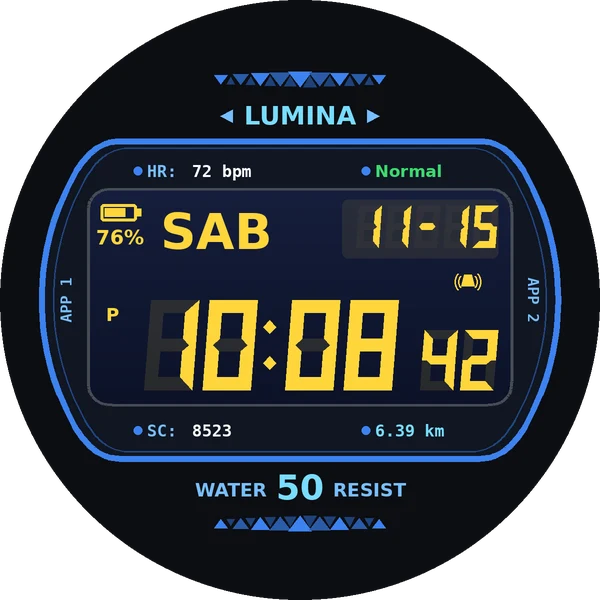
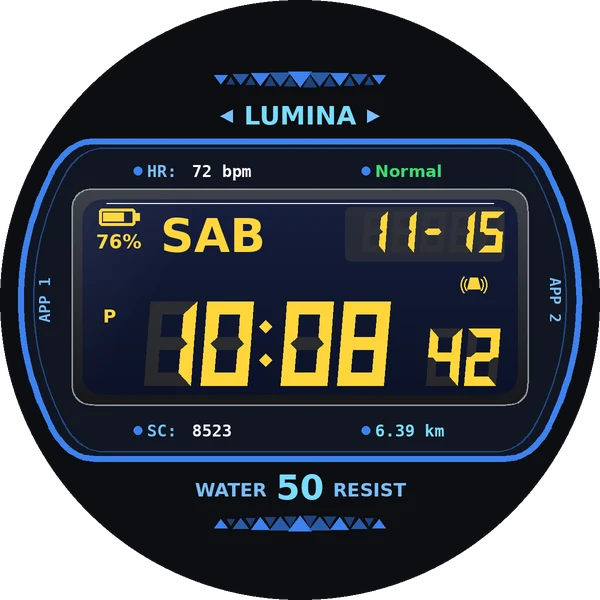
Lumina: costados del panel más cerca del borde y pantalla con bisel y cristal
Claude-Session: https://claude.ai/code/session_01RTdv2VrACuR4VFWJLA57hx

Changed region(s): [[0.03, 0.21, 0.99, 0.78], [0.24, 0.48, 0.69, 0.69], [0.75, 0.45, 0.81, 0.51]]

diff --git a/android/esferas-de-reloj/lumina/src/main/java/cl/carlospnauto/esfera/FaceService.kt b/android/esferas-de-reloj/lumina/src/main/java/cl/carlospnauto/esfera/FaceService.kt
@@ -230,7 +230,7 @@ class LuminaRenderer(
         val r = min(b.width(), b.height()) / 2f
         val fx = (x - b.exactCenterX()) / r
         val fy = (y - b.exactCenterY()) / r
-        return fx in -0.70f..0.70f && fy in -0.365f..0.345f
+        return fx in -0.76f..0.76f && fy in -0.37f..0.35f
     }
 
     private fun a(c: Int, alpha: Int) = Color.argb(alpha, Color.red(c), Color.green(c), Color.blue(c))
@@ -289,7 +289,7 @@ class LuminaRenderer(
         val rr = r * k
         fun X(v: Float) = cx + v * rr
         fun Y(v: Float) = cy + v * rr
-        val side = 0.86f
+        val side = 0.93f
         val edge = 0.53f
         val sy = 0.42f
         val ang = Math.toDegrees(kotlin.math.asin((sy / side).toDouble())).toFloat()
@@ -362,7 +362,9 @@ class LuminaRenderer(
         val th = THEMES[Choices.index(context, THEME)].second
         canvas.drawColor(Color.BLACK)
 
-        val lcd = RectF(X(-0.70f), Y(-0.365f), X(0.70f), Y(0.345f))
+        // Bisel (marco) de la pantalla y, adentro, la pantalla bajo el cristal
+        val bezel = RectF(X(-0.76f), Y(-0.37f), X(0.76f), Y(0.35f))
+        val lcd = RectF(bezel.left + r * 0.035f, bezel.top + r * 0.035f, bezel.right - r * 0.035f, bezel.bottom - r * 0.035f)
         val ink = if (simple) Color.rgb(170, 170, 170) else sc.ink
         val ghost = if (simple) 0 else a(sc.ink, if (sc.dark) 30 else 26)
 
@@ -400,7 +402,7 @@ class LuminaRenderer(
             canvas.drawPath(path, stroke)
 
             // APP 1 y APP 2 (accesos) en los costados
-            for ((sx, label, deg) in listOf(Triple(-0.778f, "APP 1", -90f), Triple(0.778f, "APP 2", 90f))) {
+            for ((sx, label, deg) in listOf(Triple(-0.85f, "APP 1", -90f), Triple(0.85f, "APP 2", 90f))) {
                 canvas.save()
                 canvas.rotate(deg, X(sx), cy)
                 write(canvas, label, X(sx), cy + r * 0.018f, r * 0.05f, th.label, mono, Paint.Align.CENTER)
@@ -444,10 +446,18 @@ class LuminaRenderer(
             write(canvas, "RESIST", X(0.11f), Y(0.655f), ws, th.label, bold, Paint.Align.LEFT, -0.2f)
             chevrons(canvas, cx, Y(0.745f), r, th.chevron, top = false)
 
-            // Pantalla: bisel y cristal
-            stroke.color = Color.rgb(70, 76, 86)
-            stroke.strokeWidth = r * 0.02f
+            // Bisel: marco metálico oscuro alrededor de la pantalla, con un filo de luz arriba
+            screenPath(bezel, r)
+            fill.shader = LinearGradient(bezel.left, bezel.top, bezel.left, bezel.bottom, Color.rgb(62, 66, 74), Color.rgb(22, 24, 28), Shader.TileMode.CLAMP)
+            canvas.drawPath(path, fill)
+            fill.shader = null
+            stroke.color = Color.argb(110, 255, 255, 255)
+            stroke.strokeWidth = r * 0.006f
+            canvas.drawPath(path, stroke)
+            // La pantalla, hundida en el bisel
             screenPath(lcd, r)
+            stroke.color = Color.argb(170, 0, 0, 0)
+            stroke.strokeWidth = r * 0.014f
             canvas.drawPath(path, stroke)
             fill.shader = LinearGradient(lcd.left, lcd.top, lcd.left, lcd.bottom, sc.top, sc.bottom, Shader.TileMode.CLAMP)
             canvas.drawPath(path, fill)
@@ -474,38 +484,38 @@ class LuminaRenderer(
         // Batería: pila chica con su nivel y el porcentaje
         val pct = battery?.getIntProperty(BatteryManager.BATTERY_PROPERTY_CAPACITY) ?: -1
         if (!simple) {
-            val bx = X(-0.665f)
-            val by = Y(-0.32f)
+            val bx = X(-0.67f)
+            val by = Y(-0.305f)
             stroke.color = ink
             stroke.strokeWidth = r * 0.011f
             canvas.drawRoundRect(RectF(bx, by, bx + r * 0.12f, by + r * 0.056f), r * 0.01f, r * 0.01f, stroke)
             fill.color = ink
             canvas.drawRect(bx + r * 0.12f, by + r * 0.016f, bx + r * 0.135f, by + r * 0.04f, fill)
             if (pct >= 0) canvas.drawRect(bx + r * 0.014f, by + r * 0.014f, bx + r * 0.014f + r * 0.092f * pct / 100f, by + r * 0.042f, fill)
-            write(canvas, if (pct >= 0) "$pct%" else "--", bx + r * 0.065f, Y(-0.185f), r * 0.068f, ink, bold, Paint.Align.CENTER)
+            write(canvas, if (pct >= 0) "$pct%" else "--", bx + r * 0.065f, Y(-0.172f), r * 0.064f, ink, bold, Paint.Align.CENTER)
         }
 
         // Día de la semana grande
         val dow = t.dayOfWeek.getDisplayName(TextStyle.SHORT, loc).replace(".", "").take(3).uppercase(loc)
-        write(canvas, dow, X(-0.465f), Y(-0.17f), r * 0.165f, ink, black, Paint.Align.LEFT)
+        write(canvas, dow, X(-0.465f), Y(-0.16f), r * 0.155f, ink, black, Paint.Align.LEFT)
 
         // Fecha (mes-día) en su cajita, con «8» apagados
         if (!simple) {
             fill.color = a(sc.ink, if (sc.dark) 22 else 16)
-            canvas.drawRoundRect(RectF(X(0.14f), Y(-0.335f), X(0.66f), Y(-0.14f)), r * 0.02f, r * 0.02f, fill)
+            canvas.drawRoundRect(RectF(X(0.15f), Y(-0.31f), X(0.68f), Y(-0.13f)), r * 0.02f, r * 0.02f, fill)
         }
-        Lcd.row(canvas, "${t.monthValue}-${t.dayOfMonth}", X(0.65f), Y(-0.315f), r * 0.075f, r * 0.14f, r * 0.022f, 5, ink, ghost)
+        Lcd.row(canvas, "${t.monthValue}-${t.dayOfMonth}", X(0.67f), Y(-0.295f), r * 0.075f, r * 0.135f, r * 0.022f, 5, ink, ghost)
 
         // Alarma puesta: campana con ondas
-        if (!simple) bell(canvas, X(0.56f), Y(-0.06f), r * 0.04f, if (Indicators.alarm(context)) ink else ghost)
+        if (!simple) bell(canvas, X(0.58f), Y(-0.05f), r * 0.04f, if (Indicators.alarm(context)) ink else ghost)
 
         // Hora grande, segundos e indicador P / 24
         val is24 = DateFormat.is24HourFormat(context)
         val h = if (is24) "%02d".format(t.hour) else (if (t.hour % 12 == 0) 12 else t.hour % 12).toString().padStart(2, ' ')
         val m = "%02d".format(t.minute)
-        val dw = r * 0.16f
-        val dh = r * 0.30f
-        val top = Y(0.0f)
+        val dw = r * 0.155f
+        val dh = r * 0.28f
+        val top = Y(0.005f)
         var x = X(-0.52f)
         Lcd.digit(canvas, h[0], x, top, dw, dh, ink, ghost); x += dw * 1.22f
         Lcd.digit(canvas, h[1], x, top, dw, dh, ink, ghost); x += dw * 1.22f
@@ -514,13 +524,29 @@ class LuminaRenderer(
         Lcd.digit(canvas, m[1], x, top, dw, dh, ink, ghost)
         if (!ambient && Choices.value(context, SECONDS) == 0) {
             val s = "%02d".format(t.second)
-            val sw = r * 0.11f
-            val sh = r * 0.20f
-            Lcd.digit(canvas, s[0], X(0.40f), top + dh - sh, sw, sh, ink, ghost)
-            Lcd.digit(canvas, s[1], X(0.40f) + sw * 1.22f, top + dh - sh, sw, sh, ink, ghost)
+            val sw = r * 0.105f
+            val sh = r * 0.19f
+            Lcd.digit(canvas, s[0], X(0.42f), top + dh - sh, sw, sh, ink, ghost)
+            Lcd.digit(canvas, s[1], X(0.42f) + sw * 1.22f, top + dh - sh, sw, sh, ink, ghost)
         }
-        write(canvas, if (is24) "24" else "P", X(-0.625f), top + r * 0.07f, r * 0.06f, if (is24 || t.hour >= 12) ink else ghost, bold, Paint.Align.CENTER)
+        write(canvas, if (is24) "24" else "P", X(-0.635f), top + r * 0.07f, r * 0.06f, if (is24 || t.hour >= 12) ink else ghost, bold, Paint.Align.CENTER)
 
+        }
+
+        // Cristal (mica) sobre la pantalla: un brillo en diagonal y un filo de luz arriba
+        if (!ambient && !simple) {
+            screenPath(lcd, r)
+            canvas.save()
+            canvas.clipPath(path)
+            fill.shader = LinearGradient(lcd.left, lcd.top, lcd.left + lcd.width() * 0.6f, lcd.bottom,
+                intArrayOf(Color.argb(46, 255, 255, 255), Color.argb(14, 255, 255, 255), Color.TRANSPARENT, Color.TRANSPARENT),
+                floatArrayOf(0f, 0.35f, 0.5f, 1f), Shader.TileMode.CLAMP)
+            canvas.drawRect(lcd, fill)
+            fill.shader = null
+            canvas.restore()
+            stroke.color = Color.argb(70, 255, 255, 255)
+            stroke.strokeWidth = r * 0.004f
+            canvas.drawLine(lcd.left + r * 0.08f, lcd.top + r * 0.012f, lcd.right - r * 0.08f, lcd.top + r * 0.012f, stroke)
         }
 
         Brand.draw(canvas, cx, Y(0.90f), r * 0.028f, Color.rgb(110, 110, 115))
